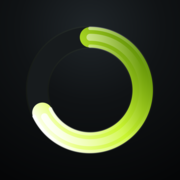
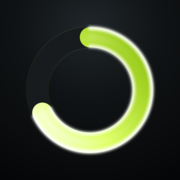
图标：内外圈高光改高斯柔光

Changed region(s): [[0.1667, 0.1389, 0.8611, 0.8611], [0.2222, 0.7222, 0.2778, 0.7778]]

diff --git a/sw.js b/sw.js
@@ -1,5 +1,5 @@
 /* 离线缓存：让 App 在没网的时候也能打开 */
-const CACHE = 'ledger-v52';
+const CACHE = 'ledger-v53';
 const ASSETS = [
   './',
   './index.html',
